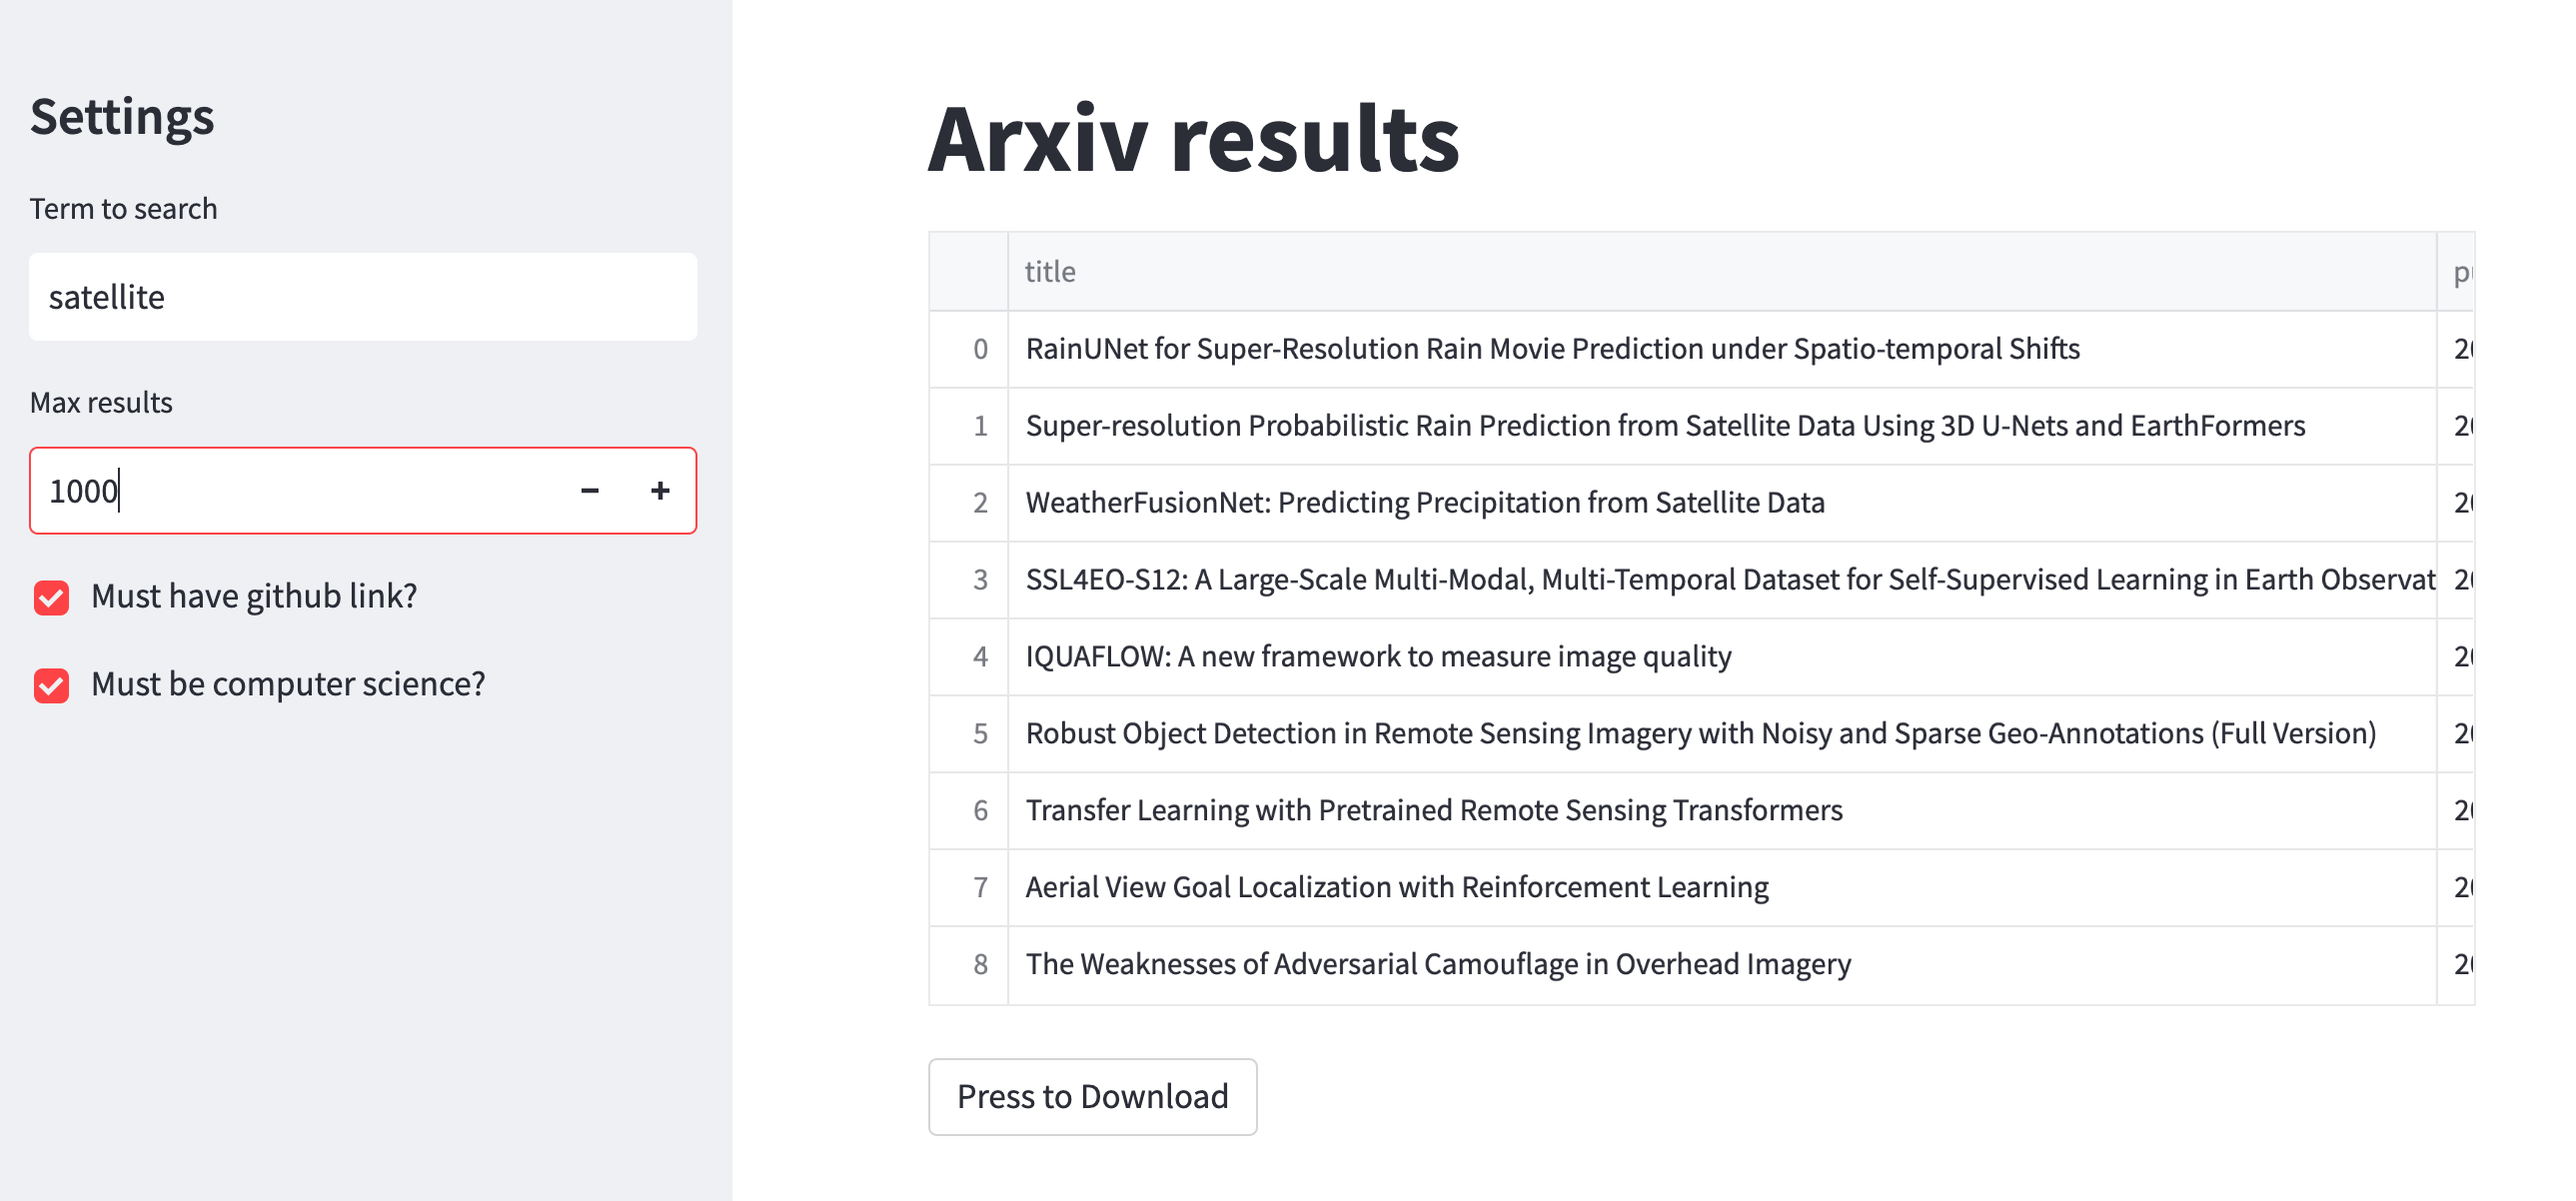
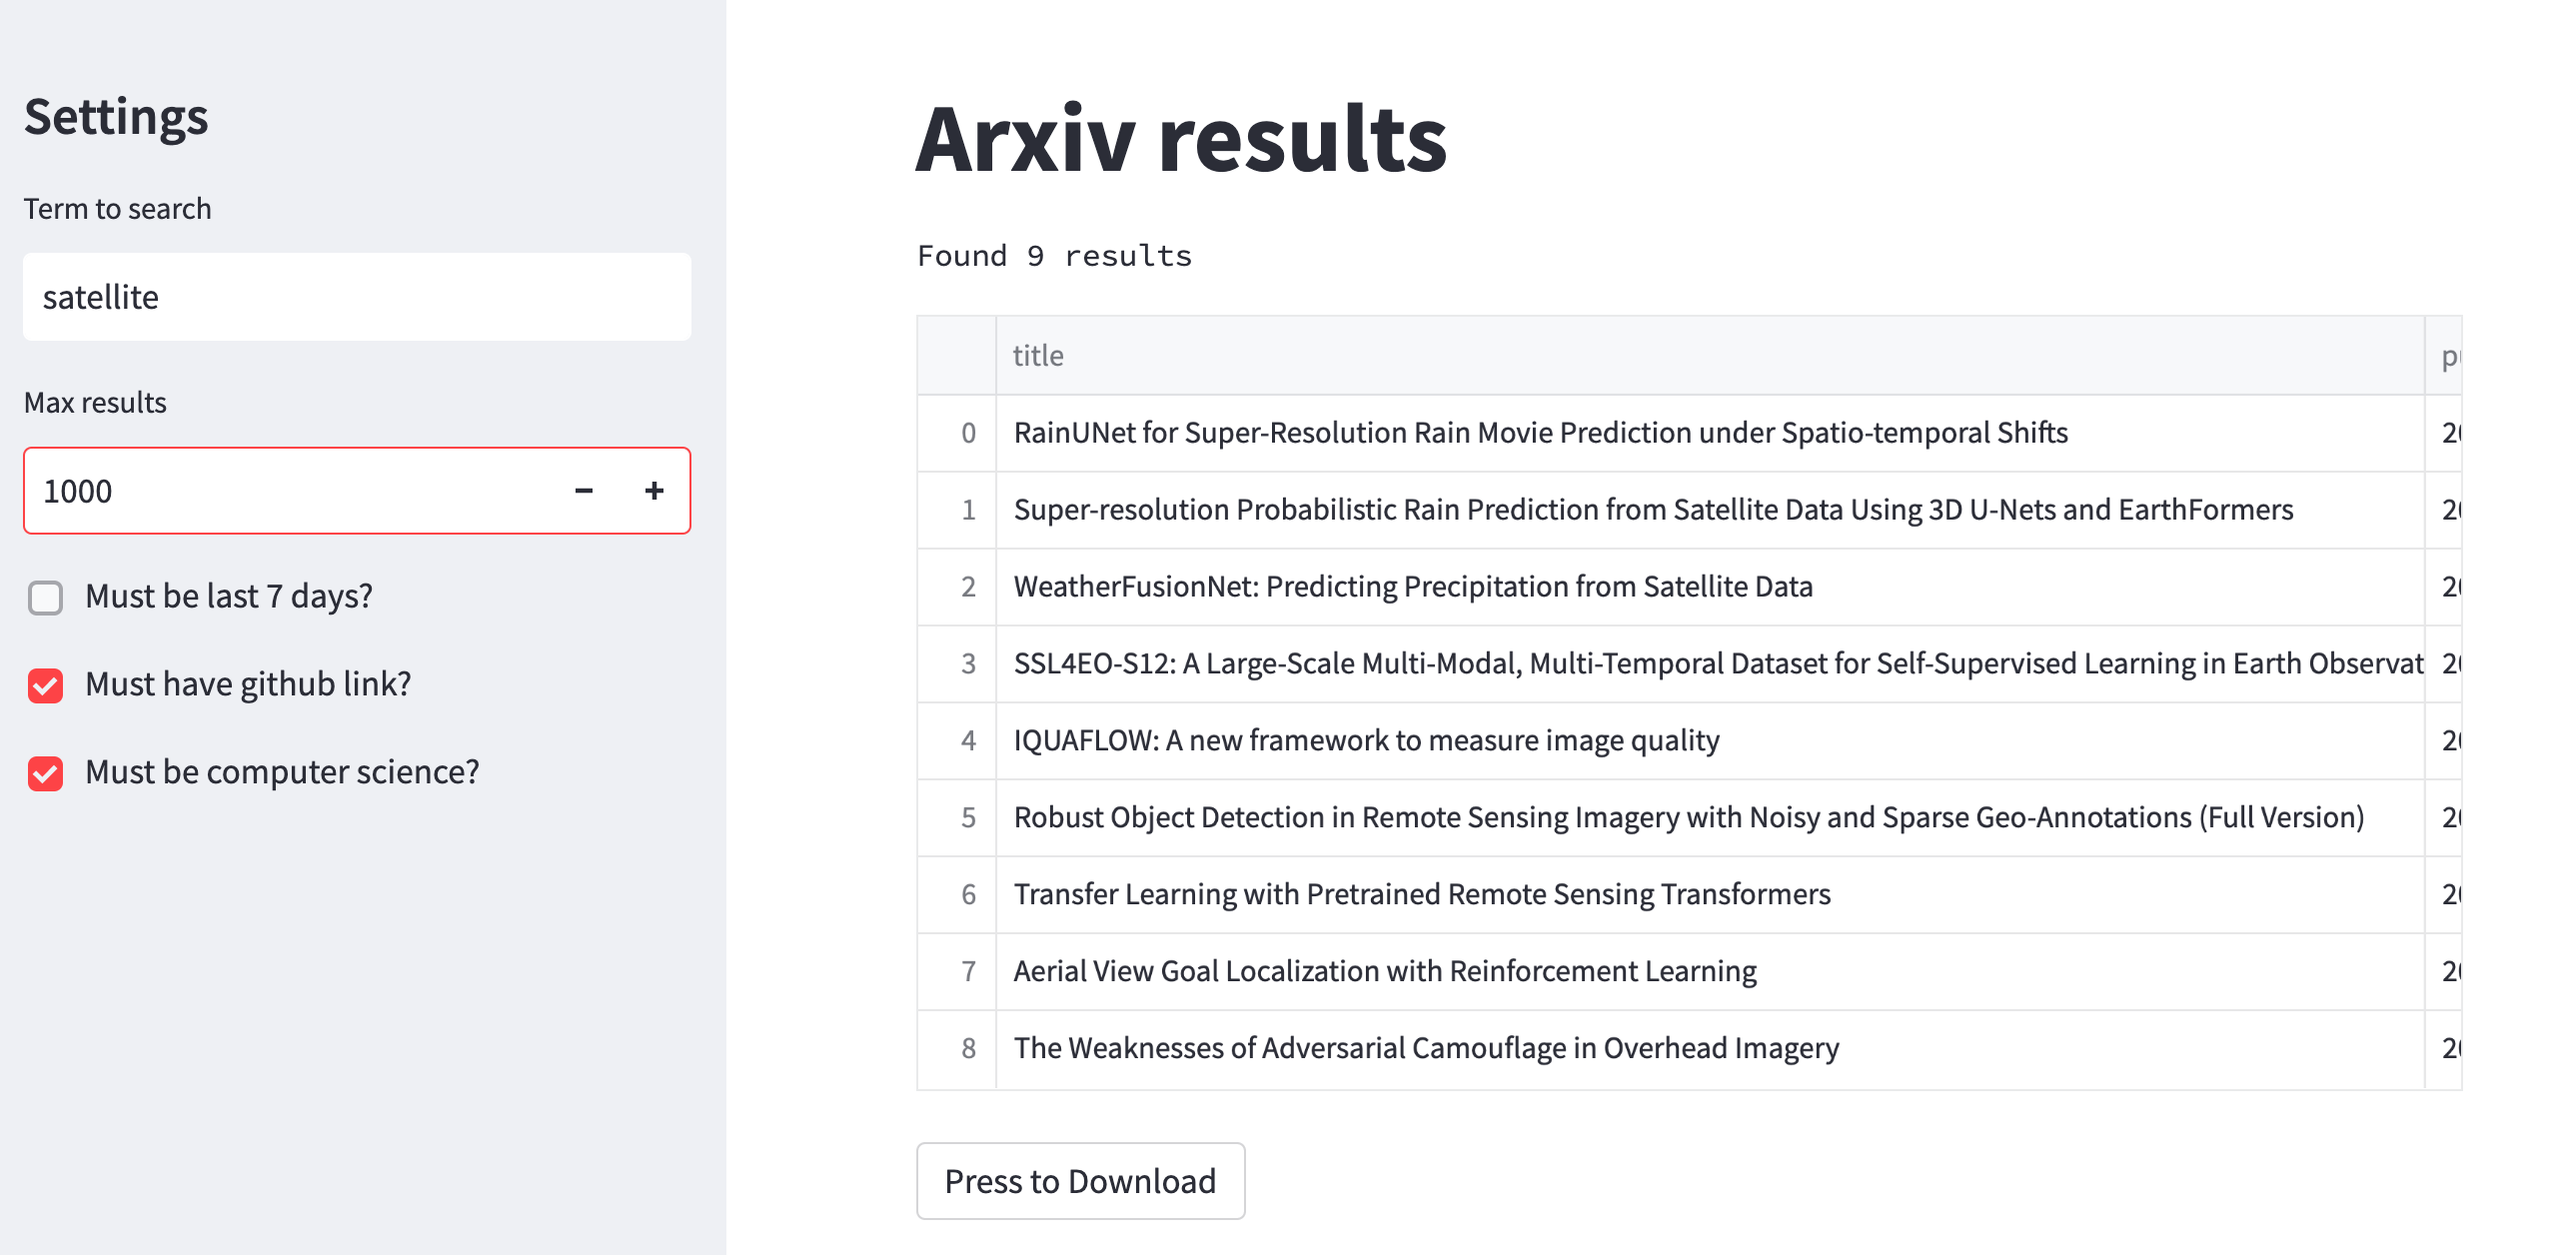
mvp

diff --git a/app.py b/app.py
@@ -1,27 +1,32 @@
 import arxiv
 import re
 import requests
+from datetime import datetime, timedelta
+import pytz
 
 import streamlit as st
 import const
 import pandas as pd
 
+utc = pytz.UTC
+
 
 @st.cache()
-def get_results(query : str, max_results : int) -> list:
+def get_results(query: str, max_results: int) -> list:
     """
     Returns a list of arxiv results
     """
     search = arxiv.Search(
-    query = query,
-    max_results = max_results,
-    sort_by = arxiv.SortCriterion.SubmittedDate,
+        query=query,
+        max_results=max_results,
+        sort_by=arxiv.SortCriterion.SubmittedDate,
     )
 
     results = []
     for result in search.results():
         results.append(result)
     return results
+
 
 def get_github_url(abstract: str) -> str:
     """
@@ -31,12 +36,13 @@ def get_github_url(abstract: str) -> str:
     for url in matches:
         try:
             response = requests.get(url)
-            response.raise_for_status() # Raises an exception if the status code is not 200
+            response.raise_for_status()  # Raises an exception if the status code is not 200
             # print('The URL is live!')
             return url
         except requests.exceptions.HTTPError:
             pass
     return ""
+
 
 def process_result(result: arxiv.arxiv.Result) -> dict:
     """
@@ -45,45 +51,62 @@ def process_result(result: arxiv.arxiv.Result) -> dict:
     github_url = get_github_url(result.summary)
     return {
         "title": result.title,
-        "published": result.published.strftime("%Y-%m-%d"),
+        "published": result.published,
         "primary_category": result.primary_category,
         "pdf_url": result.pdf_url,
         "github_url": github_url,
     }
 
+
+@st.experimental_memo
+def convert_df(df: pd.DataFrame) -> bytes:
+    return df.to_csv(index=False).encode("utf-8")
+
+
 # Settings
 st.sidebar.title("Settings")
 query = st.sidebar.text_input("Term to search", value=const.DEFAULT_QUERY)
-max_results = st.sidebar.number_input("Max results", value=10, min_value=1, max_value=10000)
-must_have_github = st.sidebar.checkbox("Must have github link?", value = False)
-must_be_computer_science = st.sidebar.checkbox("Must be computer science?", value = False)
+max_results = st.sidebar.number_input(
+    "Max results", value=100, min_value=1, max_value=300000
+)
+must_be_last_7_days = st.sidebar.checkbox("Must be last 7 days?", value=False)
+must_have_github = st.sidebar.checkbox("Must have github link?", value=False)
+must_be_computer_science = st.sidebar.checkbox("Must be computer science?", value=False)
 
 # Get results
 results = get_results(query, max_results)
 parsed_results = [process_result(result) for result in results]
 
+# Filter results
+if must_be_last_7_days:
+    now = utc.localize(datetime.now())
+    last_7_days = now - timedelta(days=7)
+    parsed_results = [
+        result for result in parsed_results if result["published"] >= last_7_days
+    ]
+
 if must_have_github:
     parsed_results = [result for result in parsed_results if result["github_url"]]
 
 if must_be_computer_science:
-    parsed_results = [result for result in parsed_results if result["primary_category"] == "cs.CV"]
+    parsed_results = [
+        result
+        for result in parsed_results
+        if result["primary_category"] == const.COMPUTER_VISION
+    ]
 
 # Display results
 st.title("Arxiv results")
-df = pd.DataFrame(parsed_results)
+num_results = len(parsed_results)
+st.text(f"Found {num_results} results")
 
-st.dataframe(df)
+if num_results > 0:
+    df = pd.DataFrame(parsed_results)
+    df["published"] = df["published"].dt.strftime(const.DATE_FORMAT)
 
-@st.experimental_memo
-def convert_df(df):
-   return df.to_csv(index=False).encode('utf-8')
+    st.dataframe(df)
+    csv = convert_df(df)
 
-csv = convert_df(df)
-
-st.download_button(
-   "Press to Download",
-   csv,
-   "file.csv",
-   "text/csv",
-   key='download-csv'
-)
+    st.download_button(
+        "Press to Download", csv, "arxiv.csv", "text/csv", key="download-csv"
+    )

diff --git a/const.py b/const.py
@@ -1,2 +1,4 @@
 GITHUB_URL_REGEX = r"https://github.com/[A-Za-z0-9\-\_]+\/[A-Za-z0-9\-\_]+"
 DEFAULT_QUERY = "satellite"
+DATE_FORMAT = "%Y-%m-%d"
+COMPUTER_VISION = "cs.CV"

diff --git a/README.md b/README.md
@@ -1,5 +1,5 @@
 # streamlit-arxiv
-Streamlit app for querying the arxiv api. Filter results on validity of Github links and export to csv
+Streamlit app for querying the arxiv api. Filter results on validity of Github links, freshness and category, and save to csv. Links will be clickable if the csv is opened in the Mac Numbers application
 
 <p align="center">
 <img src="usage.png" width="900">
